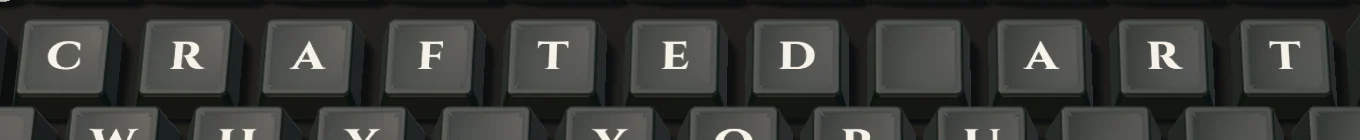
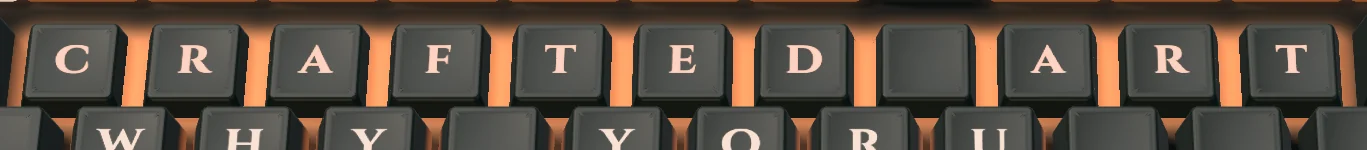
Mockups: keyboard footer v2 (copper underglow rises on view, hovered word sinks deeper and glows brighter, phone link list, drawn arrows, no stray case highlight)
Claude-Session: https://claude.ai/code/session_014kgsP4zXbR91SpjPr6JWR2

diff --git a/mockups/footer-keyboard.html b/mockups/footer-keyboard.html
@@ -3,22 +3,40 @@
 <link href="https://fonts.googleapis.com/css2?family=Aboreto&family=Cinzel:wght@400..900&family=Alegreya:ital,wght@0,400..800;1,400&display=swap" rel="stylesheet">
 <link rel="stylesheet" href="/styles.css">
 <style>
-/* Mockup only: footer as a rendered 75% keyboard. Links are spelled on the keys; a word presses as one. */
+/* Mockup only: footer as a rendered 75% keyboard. Links are spelled on the keys; a word presses as one.
+   The linked keys' copper underglow rises once (2.6s) when the board comes into view, like the header keys. */
 body{margin:0;background:var(--cast);color:var(--bright);font-family:var(--font-body)}
-.page-end{max-width:var(--max);margin:0 auto;padding:80px 24px;color:var(--pewter)}
+.page-end{max-width:var(--max);margin:0 auto;padding:80px 24px 900px;color:var(--pewter)}
 .kb-foot{border-top:var(--border-width) solid var(--line);padding:40px 24px 36px}
 .kb{position:relative;max-width:1180px;margin:0 auto;aspect-ratio:2353/949}
 .kb>img{display:block;width:100%;height:auto}
+.kb>img.lit{position:absolute;inset:0;opacity:0;transition:opacity 2.6s ease}
+.kb.is-lit>img.lit{opacity:1}
 .kb a img{position:absolute;opacity:0;pointer-events:none}
 .kb a .hit{position:absolute;border-radius:6px}
 .kb a:hover img.h,.kb a:focus-visible img.h{opacity:1}
 .kb a:active img.h{opacity:0}.kb a:active img.p{opacity:1}
 .kb a:focus-visible .hit{outline:2px solid var(--raw-copper);outline-offset:2px}
+.kb-list{display:none}
 .kb-line{max-width:1180px;margin:18px auto 0;display:flex;flex-wrap:wrap;justify-content:space-between;gap:8px 24px;font-size:var(--step-3);color:var(--pewter)}
 .kb-line a{color:var(--bright);text-decoration-color:var(--raw-copper);text-underline-offset:3px}
+@media(max-width:700px){
+ .kb a{display:none}                     /* phone: the board is a picture; the links are the list below */
+ .kb-list{display:grid;grid-template-columns:1fr 1fr;gap:12px 20px;list-style:none;margin:22px 0 0;padding:0}
+ .kb-list a{font-family:var(--font-display);font-weight:600;font-size:var(--step-3);color:var(--bright);text-decoration:underline;text-decoration-color:var(--raw-copper);text-underline-offset:4px}
+}
+@media(prefers-reduced-motion:reduce){.kb>img.lit{transition:none}}
 </style></head><body>
-<div class="page-end">… end of a page …</div>
+<div class="page-end">… end of a page (scroll down) …</div>
 <footer class="kb-foot">
-<nav class="kb" aria-label="Footer"><img src="kbfoot/board.webp" alt=""><a href="/archive.html" aria-label="Archive"><img class="h" src="kbfoot/archive-h.webp" alt="" style="left:7.522%;top:5.69%;width:6.162%;height:14.331%"><img class="p" src="kbfoot/archive-p.webp" alt="" style="left:7.48%;top:5.69%;width:6.205%;height:14.331%"><span class="hit" style="left:7.735%;top:5.69%;width:5.015%;height:12.856%"></span></a><a href="/journal.html" aria-label="Journal"><img class="h" src="kbfoot/journal-h.webp" alt="" style="left:12.622%;top:5.69%;width:36.719%;height:14.331%"><img class="p" src="kbfoot/journal-p.webp" alt="" style="left:12.622%;top:5.69%;width:36.719%;height:14.331%"><span class="hit" style="left:12.877%;top:5.69%;width:35.529%;height:12.856%"></span></a><a href="https://www.tiktok.com/@yoru.foundry" aria-label="TikTok @yoru.foundry"><img class="h" src="kbfoot/tiktok-h.webp" alt="" style="left:53.421%;top:5.69%;width:31.704%;height:14.331%"><img class="p" src="kbfoot/tiktok-p.webp" alt="" style="left:53.379%;top:5.69%;width:31.747%;height:14.331%"><span class="hit" style="left:53.761%;top:5.69%;width:30.429%;height:12.856%"></span></a><a href="/crafted-art.html" aria-label="Crafted Art"><img class="h" src="kbfoot/crafted-h.webp" alt="" style="left:12.07%;top:18.335%;width:57.799%;height:14.752%"><img class="p" src="kbfoot/crafted-p.webp" alt="" style="left:12.07%;top:18.335%;width:57.799%;height:14.752%"><span class="hit" style="left:12.24%;top:18.335%;width:56.949%;height:13.172%"></span></a><a href="/why-yoru.html" aria-label="Why Yoru"><img class="h" src="kbfoot/whyyoru-h.webp" alt="" style="left:14.195%;top:28.872%;width:42.796%;height:14.752%"><img class="p" src="kbfoot/whyyoru-p.webp" alt="" style="left:14.195%;top:28.872%;width:42.796%;height:14.752%"><span class="hit" style="left:14.365%;top:28.872%;width:41.946%;height:13.383%"></span></a><a href="/about.html" aria-label="About"><img class="h" src="kbfoot/about-h.webp" alt="" style="left:15.045%;top:39.726%;width:27.369%;height:15.174%"><img class="p" src="kbfoot/about-p.webp" alt="" style="left:15.045%;top:39.726%;width:27.369%;height:15.174%"><span class="hit" style="left:15.215%;top:39.621%;width:26.519%;height:13.699%"></span></a><a href="/request-a-build.html" aria-label="Request a Commission"><img class="h" src="kbfoot/commission-h.webp" alt="" style="left:73.523%;top:39.726%;width:13.217%;height:15.174%"><img class="p" src="kbfoot/commission-p.webp" alt="" style="left:73.481%;top:39.726%;width:13.26%;height:15.174%"><span class="hit" style="left:73.991%;top:39.621%;width:11.857%;height:13.699%"></span></a><a href="/trust-the-process.html" aria-label="Trust the Process"><img class="h" src="kbfoot/process-h.webp" alt="" style="left:4.972%;top:50.79%;width:13.132%;height:15.49%"><img class="p" src="kbfoot/process-p.webp" alt="" style="left:4.972%;top:50.79%;width:13.132%;height:15.49%"><span class="hit" style="left:5.27%;top:50.79%;width:12.07%;height:13.804%"></span></a><a href="https://www.instagram.com/yorufoundry/" aria-label="Instagram @yorufoundry"><img class="h" src="kbfoot/instagram-h.webp" alt="" style="left:17.297%;top:50.79%;width:49.426%;height:15.49%"><img class="p" src="kbfoot/instagram-p.webp" alt="" style="left:17.297%;top:50.79%;width:49.426%;height:15.49%"><span class="hit" style="left:17.467%;top:50.79%;width:48.576%;height:13.804%"></span></a><a href="/built-to-taste.html" aria-label="Built to Taste"><img class="h" src="kbfoot/taste-h.webp" alt="" style="left:25.032%;top:62.276%;width:35.104%;height:14.436%"><img class="p" src="kbfoot/taste-p.webp" alt="" style="left:25.032%;top:62.276%;width:35.104%;height:14.436%"><span class="hit" style="left:25.287%;top:62.171%;width:34.127%;height:14.12%"></span></a></nav>
+<nav class="kb" aria-label="Footer"><img src="kbfoot/board.webp" alt=""><img class="lit" src="kbfoot/board-lit.webp" alt=""><a href="/archive.html" aria-label="Archive"><img class="h" src="kbfoot/archive-h.webp" alt="" style="left:7.437%;top:5.69%;width:6.162%;height:15.385%"><img class="p" src="kbfoot/archive-p.webp" alt="" style="left:7.437%;top:5.69%;width:6.162%;height:15.385%"><span class="hit" style="left:7.735%;top:5.69%;width:5.015%;height:12.856%"></span></a><a href="/journal.html" aria-label="Journal"><img class="h" src="kbfoot/journal-h.webp" alt="" style="left:11.815%;top:5.69%;width:37.654%;height:15.385%"><img class="p" src="kbfoot/journal-p.webp" alt="" style="left:11.772%;top:5.69%;width:37.697%;height:15.385%"><span class="hit" style="left:12.877%;top:5.69%;width:35.529%;height:12.856%"></span></a><a href="https://www.tiktok.com/@yoru.foundry" aria-label="TikTok @yoru.foundry"><img class="h" src="kbfoot/tiktok-h.webp" alt="" style="left:52.741%;top:5.69%;width:32.554%;height:15.385%"><img class="p" src="kbfoot/tiktok-p.webp" alt="" style="left:52.699%;top:5.69%;width:32.597%;height:15.385%"><span class="hit" style="left:53.761%;top:5.69%;width:30.429%;height:12.856%"></span></a><a href="/crafted-art.html" aria-label="Crafted Art"><img class="h" src="kbfoot/crafted-h.webp" alt="" style="left:11.772%;top:18.335%;width:58.096%;height:15.806%"><img class="p" src="kbfoot/crafted-p.webp" alt="" style="left:11.772%;top:18.335%;width:58.096%;height:15.806%"><span class="hit" style="left:12.24%;top:18.335%;width:56.949%;height:13.172%"></span></a><a href="/why-yoru.html" aria-label="Why Yoru"><img class="h" src="kbfoot/whyyoru-h.webp" alt="" style="left:13.897%;top:28.872%;width:43.094%;height:16.017%"><img class="p" src="kbfoot/whyyoru-p.webp" alt="" style="left:13.897%;top:28.872%;width:43.094%;height:16.017%"><span class="hit" style="left:14.365%;top:28.872%;width:41.946%;height:13.383%"></span></a><a href="/about.html" aria-label="About"><img class="h" src="kbfoot/about-h.webp" alt="" style="left:14.747%;top:39.726%;width:27.752%;height:16.228%"><img class="p" src="kbfoot/about-p.webp" alt="" style="left:14.747%;top:39.726%;width:27.794%;height:16.228%"><span class="hit" style="left:15.215%;top:39.621%;width:26.519%;height:13.699%"></span></a><a href="/request-a-build.html" aria-label="Request a Commission"><img class="h" src="kbfoot/commission-h.webp" alt="" style="left:73.056%;top:39.726%;width:13.727%;height:16.228%"><img class="p" src="kbfoot/commission-p.webp" alt="" style="left:73.056%;top:39.726%;width:13.727%;height:16.228%"><span class="hit" style="left:73.991%;top:39.621%;width:11.857%;height:13.699%"></span></a><a href="/trust-the-process.html" aria-label="Trust the Process"><img class="h" src="kbfoot/process-h.webp" alt="" style="left:4.972%;top:50.79%;width:13.26%;height:16.544%"><img class="p" src="kbfoot/process-p.webp" alt="" style="left:4.972%;top:50.79%;width:13.26%;height:16.649%"><span class="hit" style="left:5.27%;top:50.79%;width:12.07%;height:13.804%"></span></a><a href="https://www.instagram.com/yorufoundry/" aria-label="Instagram @yorufoundry"><img class="h" src="kbfoot/instagram-h.webp" alt="" style="left:16.957%;top:50.79%;width:49.766%;height:16.544%"><img class="p" src="kbfoot/instagram-p.webp" alt="" style="left:16.957%;top:50.79%;width:49.766%;height:16.649%"><span class="hit" style="left:17.467%;top:50.79%;width:48.576%;height:13.804%"></span></a><a href="/built-to-taste.html" aria-label="Built to Taste"><img class="h" src="kbfoot/taste-h.webp" alt="" style="left:24.734%;top:62.276%;width:35.402%;height:14.12%"><img class="p" src="kbfoot/taste-p.webp" alt="" style="left:24.734%;top:62.276%;width:35.402%;height:14.12%"><span class="hit" style="left:25.287%;top:62.171%;width:34.127%;height:14.12%"></span></a></nav>
+<ul class="kb-list"><li><a href="/crafted-art.html">Crafted Art</a></li><li><a href="/trust-the-process.html">Trust the Process</a></li><li><a href="/built-to-taste.html">Built to Taste</a></li><li><a href="/why-yoru.html">Why Yoru</a></li><li><a href="/about.html">About</a></li><li><a href="/journal.html">Journal</a></li><li><a href="/archive.html">Archive</a></li><li><a href="/request-a-build.html">Request a Commission</a></li><li><a href="https://www.instagram.com/yorufoundry/">Instagram @yorufoundry</a></li><li><a href="https://www.tiktok.com/@yoru.foundry">TikTok @yoru.foundry</a></li></ul>
 <p class="kb-line"><span>Built one at a time in Miami.</span><a href="mailto:hello@yorufoundry.com">hello@yorufoundry.com</a><span>© 2026 Yoru Foundry</span></p>
-</footer></body></html>
+</footer>
+<script>
+// light the linked keys once when the board is mostly in view (at once with reduced motion or no observer)
+const kb=document.querySelector(".kb");
+if(matchMedia("(prefers-reduced-motion: reduce)").matches||!("IntersectionObserver" in window))kb.classList.add("is-lit");
+else new IntersectionObserver((es,o)=>{if(es[0].isIntersecting){kb.classList.add("is-lit");o.disconnect()}},{threshold:.5}).observe(kb);
+</script>
+</body></html>

diff --git a/mockups/keys/render-board.html b/mockups/keys/render-board.html
@@ -49,14 +49,23 @@ let seed = 7; function grain(size) { const c = document.createElement('canvas');
   for (let i = 0; i < im.data.length; i += 4) { seed = (seed * 1664525 + 1013904223) >>> 0; const v = 118 + (seed / 4294967296) * 20; im.data[i] = im.data[i + 1] = im.data[i + 2] = v; im.data[i + 3] = 255; }
   g.putImageData(im, 0, 0); const t = new THREE.CanvasTexture(c); t.wrapS = t.wrapT = THREE.RepeatWrapping; t.repeat.set(3, 3); return t; }
 const bump = grain(256);
+const LED = '#E8834D';
+function glowTex(u) { const w = 256 * (u * P + 6) / (P + 6), h = 256, c = document.createElement('canvas'); c.width = Math.round(w); c.height = h; const g = c.getContext('2d');
+  g.filter = 'blur(16px)'; g.fillStyle = '#fff'; const m = 26; g.beginPath(); g.roundRect(m, m, c.width - 2 * m, h - 2 * m, 30); g.fill();
+  const t = new THREE.CanvasTexture(c); t.colorSpace = THREE.SRGBColorSpace; return t; }
+const wallGlow = (() => { const c = document.createElement('canvas'); c.width = 4; c.height = 64; const g = c.getContext('2d'); const gr = g.createLinearGradient(0, 0, 0, 64);
+  gr.addColorStop(0, '#000'); gr.addColorStop(1, '#000'); g.fillStyle = gr; g.fillRect(0, 0, 4, 64); return new THREE.CanvasTexture(c); })();
 // legend: {big:"J"} centred letter, {small:"Tab"} top-left small, {lines:["Trust the","Process"]} centred lines
-function legendTex(T, face, ink, lg) {
+function legendTex(T, face, ink, lg, mask) {
+  if (mask) { face = '#000'; ink = '#fff'; }
   const c = document.createElement('canvas'); c.width = Math.round(T.w * 40); c.height = Math.round(T.d * 40); const g = c.getContext('2d');
   g.fillStyle = face; g.fillRect(0, 0, c.width, c.height); g.fillStyle = ink;
   if (lg.big) { g.font = '700 290px Cinzel'; g.textAlign = 'center'; g.textBaseline = 'middle'; g.fillText(lg.big, c.width / 2, c.height / 2 + 14); }
   if (lg.small) { g.font = '700 118px Cinzel'; g.textBaseline = 'top'; g.fillText(lg.small, 50, 44); }
   if (lg.lines) { g.font = `700 ${lg.size || 150}px Cinzel`; g.textAlign = 'center'; g.textBaseline = 'middle'; const n = lg.lines.length, lh = (lg.size || 150) * 1.12;
     lg.lines.forEach((l, i) => g.fillText(l, c.width / 2, c.height / 2 + (i - (n - 1) / 2) * lh + 10)); }
+  if (lg.dir) { g.strokeStyle = ink; g.lineWidth = 22; g.lineCap = 'round'; g.lineJoin = 'round'; g.save(); g.translate(c.width / 2, c.height / 2 + 8);
+    g.rotate({ up: 0, right: Math.PI / 2, down: Math.PI, left: -Math.PI / 2 }[lg.dir]); g.beginPath(); g.moveTo(0, 95); g.lineTo(0, -95); g.moveTo(-60, -35); g.lineTo(0, -95); g.lineTo(60, -35); g.stroke(); g.restore(); }
   if (lg.arrow) { g.strokeStyle = ink; g.lineWidth = 18; g.lineCap = 'round'; g.lineJoin = 'round'; const ax = c.width - 120, ay = c.height - 130;
     g.beginPath(); g.moveTo(ax, ay - 130); g.lineTo(ax, ay); g.lineTo(ax - 210, ay); g.moveTo(ax - 155, ay - 55); g.lineTo(ax - 210, ay); g.lineTo(ax - 155, ay + 55); g.stroke(); }
   const t = new THREE.CanvasTexture(c); t.colorSpace = THREE.SRGBColorSpace; t.anisotropy = 8; return t;
@@ -71,17 +80,27 @@ window.build = async (layout) => {
     for (const k of row) { const u = k.u || 1, { wallGeo, topGeo, T } = capGeo(u), face = k.face || layout.face, ink = k.ink || layout.ink;
       const mat = new THREE.MeshPhysicalMaterial({ color: face, roughness: 0.5, bumpMap: bump, bumpScale: 0.6, sheen: 0.25, sheenRoughness: 0.8, sheenColor: new THREE.Color(face), clippingPlanes: clip, clipShadows: true });
       const topMat = mat.clone(); topMat.color = new THREE.Color(0xffffff); topMat.map = legendTex(T, face, ink, k.lg || {});
+      if (k.id) { topMat.emissiveMap = legendTex(T, face, ink, k.lg || {}, true); topMat.emissive = new THREE.Color(LED); topMat.emissiveIntensity = 0;
+        if (k.id === 'commission') topMat.emissiveMap = null, topMat.emissive = new THREE.Color(0);   // copper cap: keep its dark legend
+        mat.emissive = new THREE.Color(LED); mat.emissiveIntensity = 0;
+        // light from under the cap: the walls glow at the bottom and fade by ~3.5mm up
+        mat.onBeforeCompile = (sh) => { sh.vertexShader = 'varying float vZ;\n' + sh.vertexShader.replace('#include <begin_vertex>', '#include <begin_vertex>\nvZ = position.z;');
+          sh.fragmentShader = 'varying float vZ;\n' + sh.fragmentShader.replace('#include <emissivemap_fragment>', 'totalEmissiveRadiance *= 1.0 - smoothstep(0.0, 3.5, vZ);'); };
+        mat.customProgramCacheKey = () => 'wallglow'; }
       const grp = new THREE.Group(); const wm = new THREE.Mesh(wallGeo, mat), tm = new THREE.Mesh(topGeo, topMat);
       for (const m of [wm, tm]) { m.castShadow = m.receiveShadow = true; grp.add(m); }
       grp.position.set(x + u * P / 2, rowsY[ri] - midY, 0); scene.add(grp);
-      if (k.id) (keys[k.id] ||= []).push({ grp, u, T });
+      let glow = null;
+      if (k.id) { glow = new THREE.Mesh(new THREE.PlaneGeometry(u * P + 6, P + 6), new THREE.MeshBasicMaterial({ map: glowTex(u), color: LED, transparent: true, opacity: 0, blending: THREE.AdditiveBlending, depthWrite: false, toneMapped: false }));
+        glow.position.set(x + u * P / 2, rowsY[ri] - midY, -0.25); scene.add(glow); }
+      if (k.id) (keys[k.id] ||= []).push({ grp, u, T, glow, topMat, mat });
       x += u * P; } });
   // case: anodized aluminium tray around the plate
-  const cw = totalU * P + 2 * 11, ch = (6.25 * P) + 2 * 11, ow = cw / 2, oh = ch / 2, iw = totalU * P / 2 + 1.2, ih = 6.25 * P / 2 + 1.2;
+  const cw = totalU * P + 2 * 11, ch = (6.25 * P) + 2 * 11, ow = cw / 2, oh = ch / 2, iw = totalU * P / 2 + 0.6, ih = 6.25 * P / 2 + 0.6;
   const shape = new THREE.Shape(); const rr = (s, w, h, r) => { s.moveTo(-w + r, -h); s.lineTo(w - r, -h); s.quadraticCurveTo(w, -h, w, -h + r); s.lineTo(w, h - r); s.quadraticCurveTo(w, h, w - r, h); s.lineTo(-w + r, h); s.quadraticCurveTo(-w, h, -w, h - r); s.lineTo(-w, -h + r); s.quadraticCurveTo(-w, -h, -w + r, -h); };
   rr(shape, ow, oh, 7); const hole = new THREE.Path(); rr(hole, iw, ih, 1.5); shape.holes.push(hole);
   const caseGeo = new THREE.ExtrudeGeometry(shape, { depth: 22, bevelEnabled: true, bevelThickness: 1.2, bevelSize: 1.2, bevelSegments: 4, curveSegments: 24 });
-  const caseMat = new THREE.MeshPhysicalMaterial({ color: layout.caseColor, metalness: 0.75, roughness: 0.42, clearcoat: 0.1 });
+  const caseMat = new THREE.MeshPhysicalMaterial({ color: layout.caseColor, metalness: 0.7, roughness: 0.52 });
   const kase = new THREE.Mesh(caseGeo, caseMat); kase.position.z = -21; kase.castShadow = kase.receiveShadow = true; scene.add(kase);
   const plate = new THREE.Mesh(new THREE.PlaneGeometry(iw * 2, ih * 2), new THREE.MeshStandardMaterial({ color: '#0C1010', metalness: 0.3, roughness: 0.7 }));
   plate.position.z = -0.4; plate.receiveShadow = true; scene.add(plate);
@@ -95,8 +114,9 @@ const front = new THREE.DirectionalLight(0xffe9d6, 0.9); front.position.set(-40,
 scene.add(new THREE.AmbientLight(0xffffff, 0.12));
 const camera = new THREE.PerspectiveCamera(17, W / H, 10, 3000); camera.up.set(0, 0, 1);
 camera.position.set(0, -430, 640); camera.lookAt(0, 6, 0);
-window.renderBoard = ({ pressed = {} } = {}) => {
-  for (const [id, list] of Object.entries(keys)) for (const k of list) k.grp.position.z = -(pressed[id] || 0);
+window.renderBoard = ({ pressed = {}, lit = 0, boost = {} } = {}) => {
+  for (const [id, list] of Object.entries(keys)) for (const k of list) { k.grp.position.z = -(pressed[id] || 0); const b = lit * (boost[id] || 1);
+    k.glow.material.opacity = Math.min(1, 0.24 * b); k.topMat.emissiveIntensity = 0.5 * b; k.mat.emissiveIntensity = 0.32 * b; }
   renderer.render(scene, camera);
   // screen boxes of each linked key's top face (for the link hit areas)
   const boxes = {};
